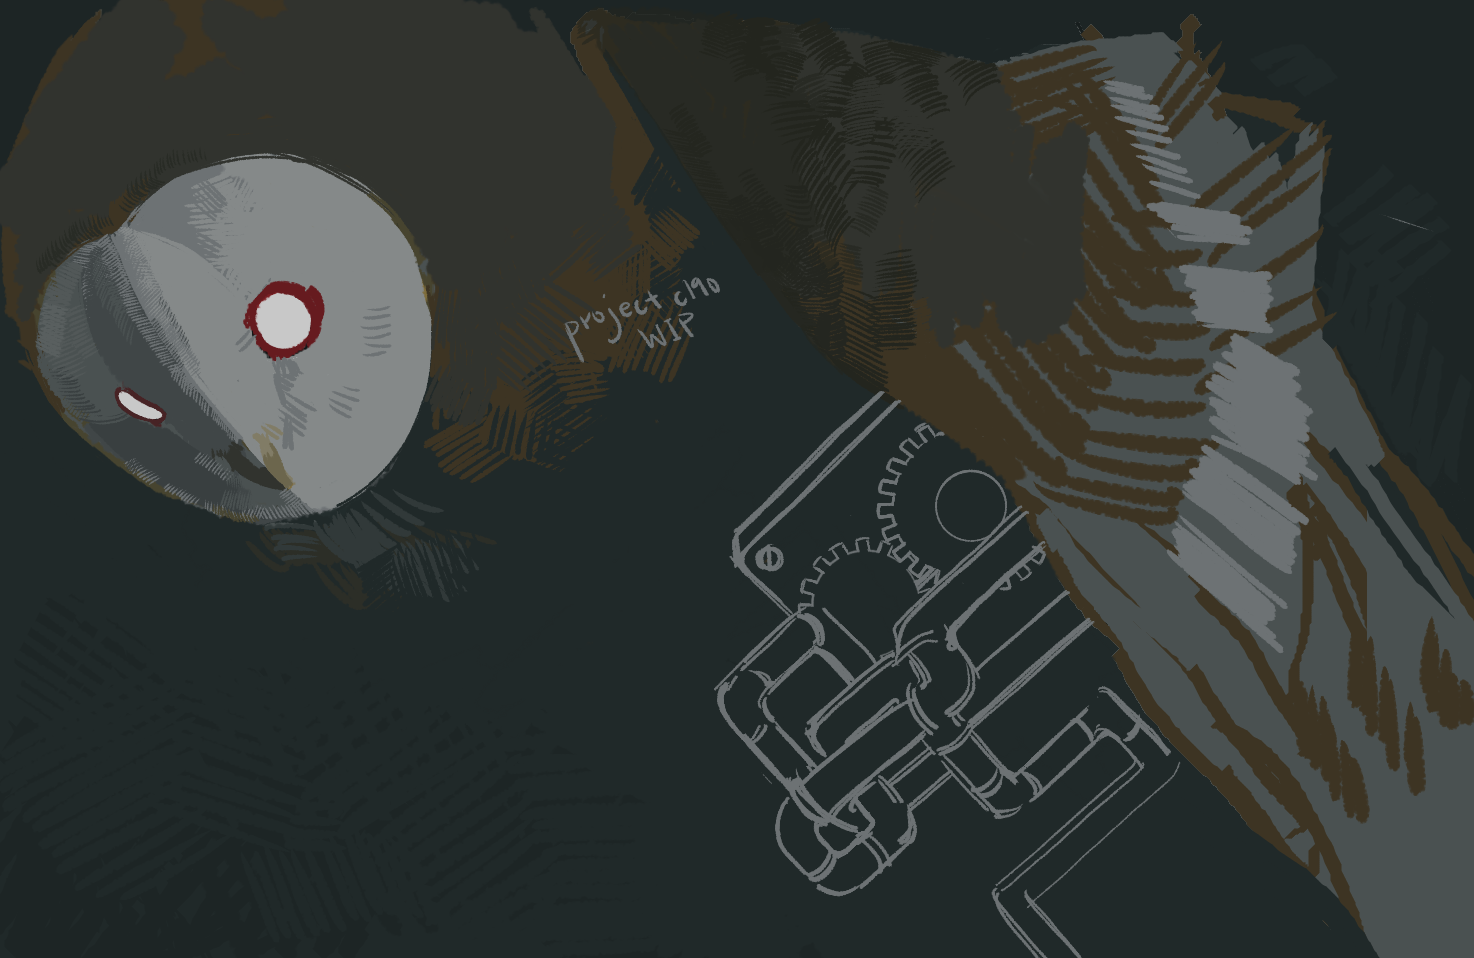
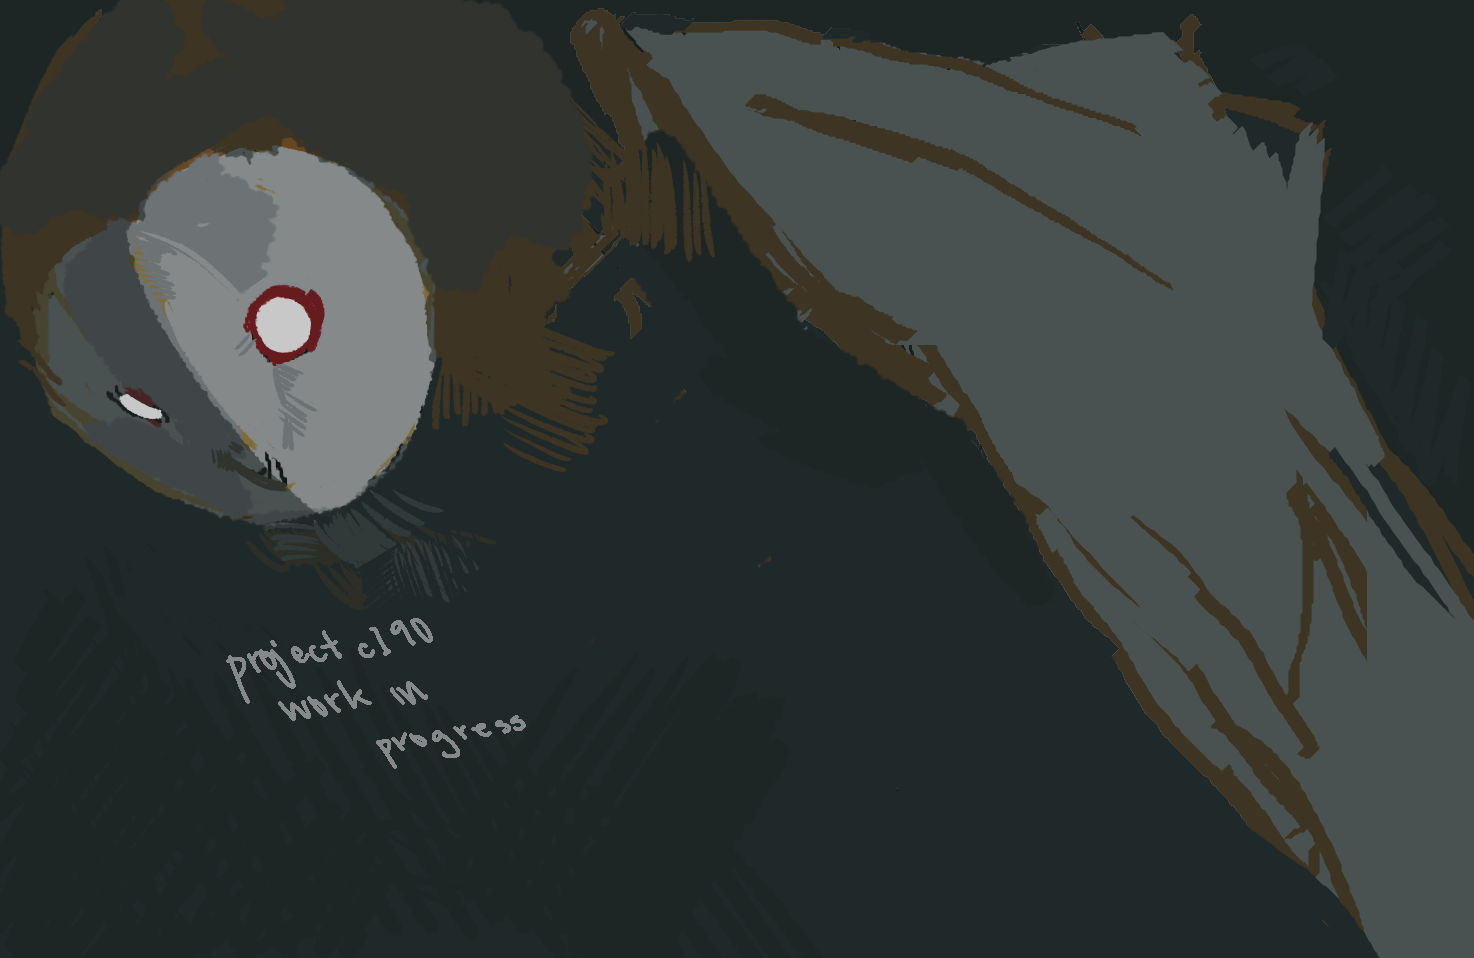
commit

diff --git a/index.html b/index.html
@@ -113,20 +113,11 @@ permalink: /
                 </tr>
                 <tr height="150px" style="background-color:#3e4123;vertical-align:top;">
                     <td><div style="overflow-x:hidden;overflow-y:auto;height:150px;">
-                        <b>08/20/23:</b> Added updates box and computer graphic to landing page.
+                        <b>08/22/23:</b> Redid a few sketchbook blog posts to include better WIP images.
+                        <br><b>08/20/23:</b> Added updates box and computer graphic to landing page.
                     </div></td>
                 </tr>
             </table>
         </td>
     </tr>
 </table>
-<!--<table width="100%">
-    <tr style="background-color:#383a1f">
-        <td>Updates</td>
-    </tr>
-    <tr height="150px" style="background-color:#3e4123;vertical-align:top;">
-        <td><div style="overflow-x:hidden;overflow-y:auto;height:150px;">
-            Lorem ipsum dolor sit amet, consectetuer adipiscing elit. Aenean commodo ligula eget dolor. Aenean massa. Cum sociis natoque penatibus et magnis dis parturient montes, nascetur ridiculus mus. Donec quam felis, ultricies nec, pellentesque eu, pretium quis, sem. Nulla consequat massa quis enim. Donec pede justo, fringilla vel, aliquet nec, vulputate eget, arcu. In enim justo, rhoncus ut, imperdiet a, venenatis vitae, justo. Nullam dictum felis eu pede mollis pretium. Integer tincidunt. Cras dapibus.
-        </div></td>
-    </tr>
-</table>-->

diff --git a/_posts/2023-02-21-wc_kiana_wip.md b/_posts/2023-02-21-wc_kiana_wip.md
@@ -4,7 +4,5 @@ title: Kiana Kaslana cameo
 categories: sketchbook
 caturl: "/blog/sketchbook.html"
 ---
-It's fun stitching a bunch of references together instead of drawing directly off of one. The face is pretty much all improv, which I guess is pretty good given that I struggle with less-than-realistic faces. I don't know; I tend to find realism or semi-realism easier because it entails making careful observations of what you can already see.
-<br><img src="/images/for-posts/wc_kiana_wip.png" width="400px">
-<br>I was also thinking that for next time, I should start a drawing with a non-white color background. It'd influence my color choices when drawing the subject, and would certainly be more interesting than a character on a blank background.
-<br>Oh, and this is a work in progress by the way! I just like to have several pieces going at once, so I can't get too obsessed with just one and end up burning myself out haha
+<a href="/images/for-posts/wc_kiana_wip.png" target="_blank"><img src="/images/for-posts/wc_kiana_wip.png" width="500px"></a> <br><a href="/images/for-posts/wc_kiana_wip_.png" target="_blank"><img src="/images/for-posts/wc_kiana_wip_.png" width="500px" style="margin-top:10px;"></a>
+<br>It's fun stitching a bunch of references together instead of drawing directly off of one. I was also thinking that for next time, I should start a drawing with a non-white color background. It'd influence my color choices when drawing the subject, and would certainly be more interesting than a character on a blank background.

diff --git a/_posts/2023-03-07-reworking.md b/_posts/2023-03-07-reworking.md
@@ -5,6 +5,6 @@ categories: sketchbook
 caturl: "/blog/sketchbook.html"
 ---
 Was trying to salvage <a href="/sketchbook/2022/12/08/bird_test.html" target="_blank"><u>t</u>his</a> drawing from December 2022. Here's what I got.
-<br><img src="/images/for-posts/bird_test_mspaint_re.png" width="400px">
+<br><a href="/images/for-posts/bird_test_mspaint_re.png" target="_blank"><img src="/images/for-posts/bird_test_mspaint_re.png" width="260px"></a> <a href="/images/for-posts/bird_test_mspaint_re1.png" target="_blank"><img src="/images/for-posts/bird_test_mspaint_re1.png" width="260px"></a>
 <br>I might actually like it now. I think it looked kind of disjointed before because I'd started by drawing the wings of a secretary bird, and then tried to mold it into a pigeon. I was also upset with the boring colors and lack of background, so this is an improvement.
 <br>This piece is mostly for technical practice. I'm still wrestling with the concepts for a line of more thoughtful pieces, and working on fanart :^)

diff --git a/_posts/2023-05-12-mech-owl-wip.md b/_posts/2023-05-12-mech-owl-wip.md
@@ -5,4 +5,5 @@ categories: sketchbook
 caturl: "/blog/sketchbook.html"
 ---
 <a href="/images/for-posts/mech_owl_wip.png" target="_blank"><img src="/images/for-posts/mech_owl_wip.png" width="500px"></a>
+<br><a href="/images/for-posts/mech_owl_wip_.png" target="_blank"><img src="/images/for-posts/mech_owl_wip_.png" width="500px" style="margin-top:10px;"></a>
 <br>Mechanical barn owl concept.

diff --git a/_posts/2023-02-08-turing-wip-2.md b/_posts/2023-02-08-turing-wip-2.md
@@ -5,4 +5,4 @@ categories: sketchbook
 caturl: "/blog/sketchbook.html"
 ---
 <img src="/images/for-posts/turing_wip_2.png" width="400px">
-<br>Gotta love MS Paint quality. Anyways, I think I'm going to bounce to a different piece and then come back to polish this one up
+<br>I think I'm going to bounce to a different piece and then come back to polish this one up.
